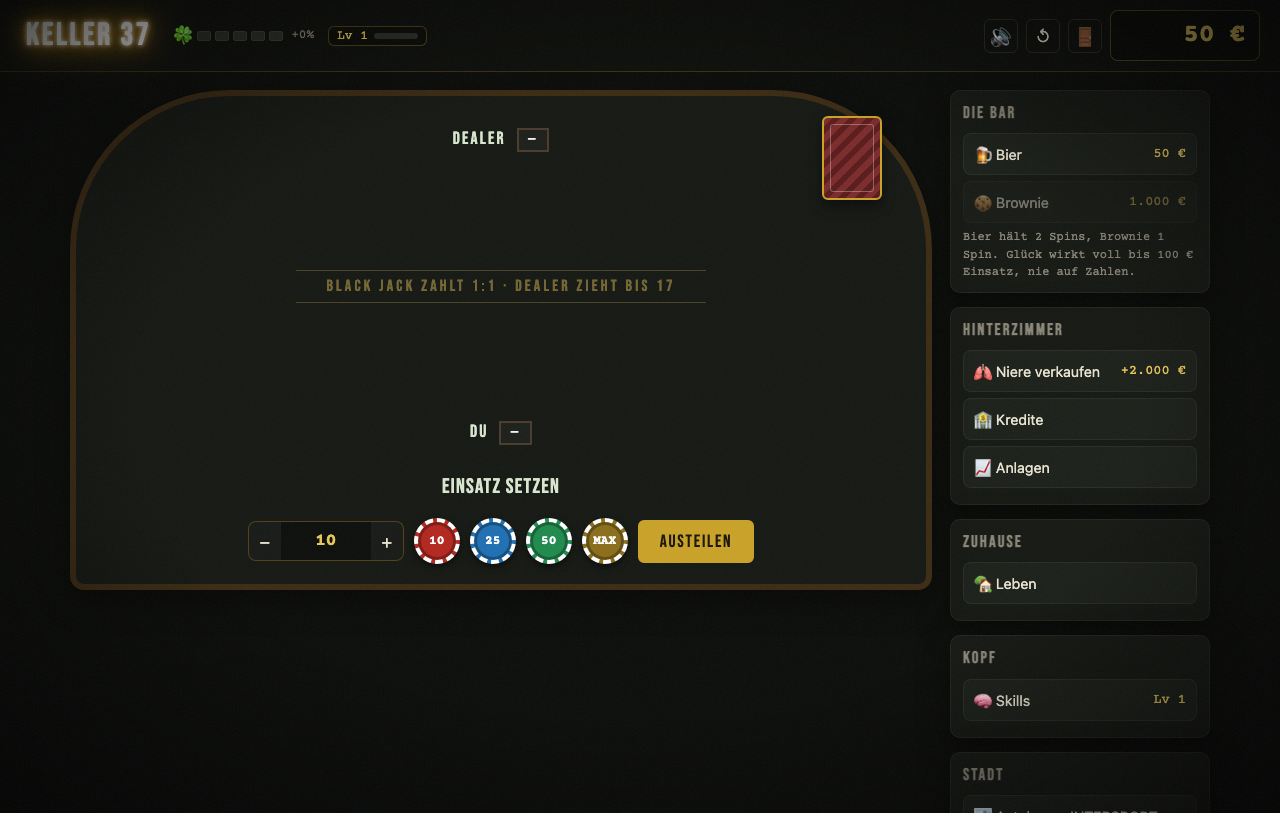
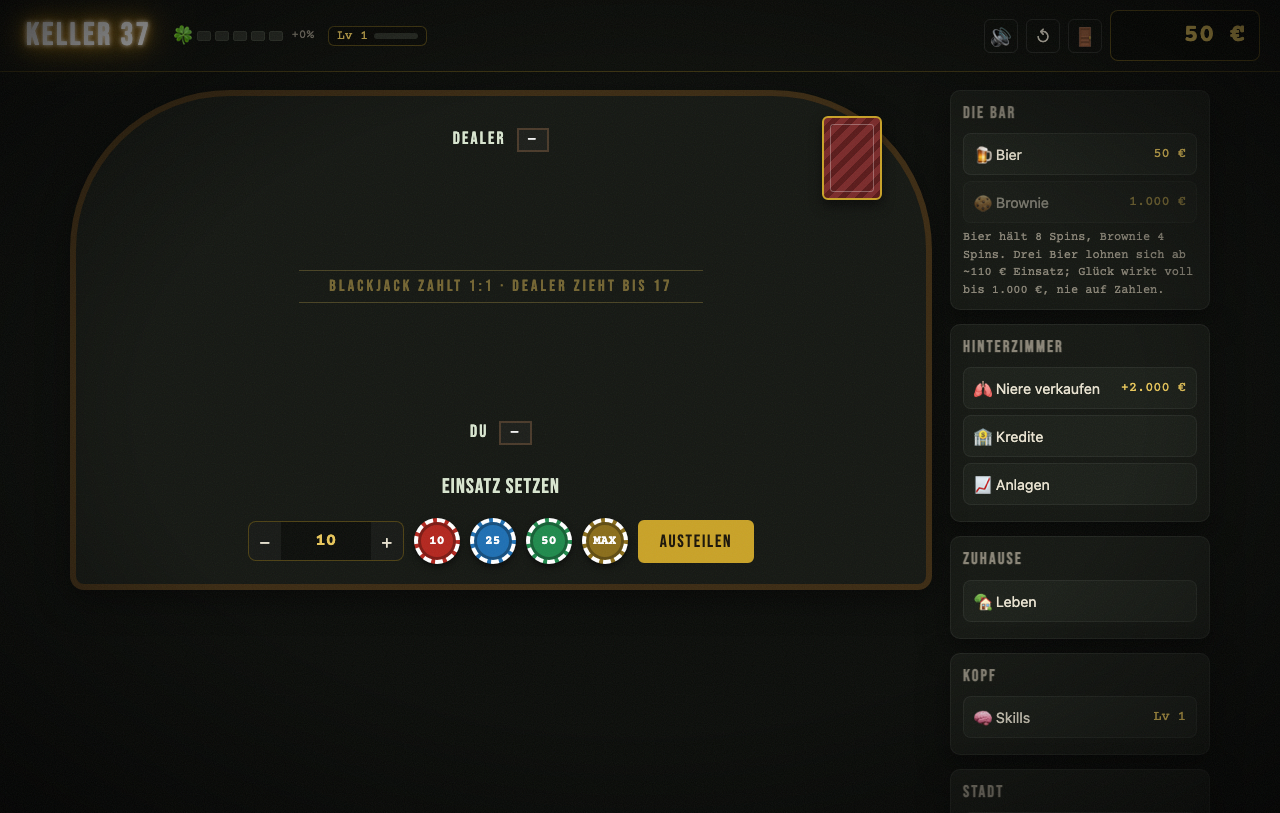
balance: alle Tische nüchtern ~97 %, mit 3 Bier ~115 %; Bier hält 8 Spins und lohnt sich ab ~110 € an jedem Tisch
Vorher verlor man überall (Slots 94 %, Mega 92 %, Rad 94 %), und der einzige
Vorteil – Bier – rechnete sich erst ab 220 € Einsatz und nur auf Rot/Schwarz.
Wer Slots, Rad oder Mega Seven spielte, verlor auch betrunken.

- BEER_SPINS 4 → 8: 150 € für 8 Spins, Break-even ~110 € statt 220 €
- Slots: Drillinge 6/20/25/40 (Paar 1,2×) → 97,7 %; Glück macht aus einem
  billigen Paar zu 12 % einen Drilling (SLOT_LUCK_TRIPLE) → 115 % mit 3 Bier
  (vorher 106 %). Zockerhände ist damit nüchtern ~102 %.
- Glücksrad: 8 Bankrott, 13 Hälfte, ×2/×5/×10 → 97,9 %, 115 % mit 3 Bier
- Mega Seven: Glocke 4er/5er 12/30 statt 10/25 → ~97 %, 116 % mit 3 Bier
- Bar-Hinweis nennt die Schwelle (BEER_WORTH_FROM, im Selftest gegen die
  Rechnung geprüft); Paytables, README, Sim-Leitplanken angepasst
- Sim: Story 1/2 diszipliniert auf Rot 45 → 76 % / 36 → 68 %, wild bleibt pleite

Referenzbilder slots/roulette/blackjack/hub erneuert (Bar-Hinweis eine Zeile länger).

diff --git a/keller37.html b/keller37.html
@@ -1264,8 +1264,8 @@ body.zitter .balance:not(.up):not(.down), body.zitter .hud-pegel { animation: zi
         <table>
           <tr><td>7⃣ 7⃣ 7⃣</td><td>40×</td></tr>
           <tr><td>💎 💎 💎</td><td>25×</td></tr>
-          <tr><td>🔔 🔔 🔔</td><td>15×</td></tr>
-          <tr><td>Drilling</td><td>5×</td></tr>
+          <tr><td>🔔 🔔 🔔</td><td>20×</td></tr>
+          <tr><td>Drilling</td><td>6×</td></tr>
           <tr><td>Paar</td><td id="payPair">1,2×</td></tr>
         </table>
       </div>
@@ -1569,7 +1569,7 @@ body.zitter .balance:not(.up):not(.down), body.zitter .hud-pegel { animation: zi
         <tr><td>7⃣</td><td>20 / 100 / 500</td></tr>
         <tr><td>💎</td><td>10 / 40 / 100</td></tr>
         <tr><td>BAR</td><td>5 / 20 / 50</td></tr>
-        <tr><td>🔔</td><td>3 / 10 / 25</td></tr>
+        <tr><td>🔔</td><td>3 / 12 / 30</td></tr>
         <tr><td>🍒</td><td>2 / 5 / 10</td></tr>
         <tr><td>⭐ ×3+</td><td>5 Freispiele, ×2</td></tr>
       </table>
@@ -1656,7 +1656,7 @@ body.zitter .balance:not(.up):not(.down), body.zitter .hud-pegel { animation: zi
       <h4>24 Felder</h4>
       <table>
         <tr><td>×10</td><td>1 Feld</td></tr><tr><td>×5</td><td>1 Feld</td></tr><tr><td>×2</td><td>1 Feld</td></tr>
-        <tr><td>Hälfte</td><td>11 Felder</td></tr><tr><td>Bankrott</td><td>10 Felder</td></tr>
+        <tr><td>Hälfte</td><td>13 Felder</td></tr><tr><td>Bankrott</td><td>8 Felder</td></tr>
       </table>
     </div>
     <div class="status" id="wheelStatus">Einsatz wählen und drehen</div>
@@ -1698,7 +1698,8 @@ const Rules = {
   POST_PENALTY: 25,
   BEER_LUCK: [0, 10, 15, 20, 25],
   BROWNIE_LUCK: 40,
-  BEER_SPINS: 4,       // 3 Bier = 150 € für 4 Spins: lohnt sich ab ~220 € Einsatz am Roulette (Balancing 2026-09-20, tests/balance-sim.mjs)
+  BEER_SPINS: 8,       // 3 Bier = 150 € für 8 Spins: lohnt sich ab ~110 € Einsatz an jedem Tisch (Balancing 2026-09-21, tests/balance-sim.mjs; vorher 4 Spins = ab 220 €, und nur am Roulette)
+  BEER_WORTH_FROM: 110, // Einsatz, ab dem sich 3 Bier rechnen (Bar-Hinweis; der Selftest prüft ihn gegen 150 / (BEER_SPINS × Vorteil))
   BROWNIE_SPINS: 4,
   MARRIAGE_SPINS: 2,
   MAFIA_SPINS: 5,
@@ -1714,8 +1715,9 @@ const Rules = {
     return l;
   },
   /* Glück ist ein echter, aber teurer Vorteil: voll bis LUCK_CAP, darüber im Verhältnis kleiner (Pech genauso).
-     Mit 3 Bier liegt Roulette Rot/Schwarz bei ~117 %, das Rad bei ~111 %, die Slots bei ~105 % – wer die Bankroll
-     hält und den Einsatz am Cap ausrichtet, kommt voran; wer alles setzt, fällt trotzdem. */
+     Balancing 2026-09-21: nüchtern liegen alle Tische bei ~97 % (Roulette Rot 97, Slots 98, Rad 98, Mega 97, Craps/Baccarat 99),
+     mit 3 Bier bei ~115 % (Rot 117, Slots 115, Rad 115, Mega 117, Craps 109, Baccarat 108) – der Spieler darf das Spiel
+     wählen, das ihm gefällt. Wer die Bankroll hält und ab BEER_WORTH_FROM setzt, kommt voran; wer alles setzt, fällt trotzdem. */
   effectiveLuck(luck, bet) {
     if (!luck) return 0;
     if (!bet || bet <= Rules.LUCK_CAP) return luck;
@@ -1823,17 +1825,21 @@ const Rules = {
   SYMBOLS: ['🍒', '🍋', '🍇', '🔔', '💎', '7⃣'],
   slotRoll(rng) { return [0, 1, 2].map(() => Rules.SYMBOLS[Math.floor(rng() * Rules.SYMBOLS.length)]); },
   CHEAP: ['🍒', '🍋', '🍇'],
-  /* Glück erzwingt ein Paar; wird daraus zufällig ein Drilling, dann nur bei den billigen Symbolen (5×) –
+  SLOT_LUCK_TRIPLE: 0.12, // Glück: ein erzwungenes Paar aus 🍒🍋🍇 wird so oft zum Drilling (fest, nicht mit dem Glück skaliert)
+  /* Glück erzwingt ein Paar; bei den billigen Symbolen (6×) wird daraus mit SLOT_LUCK_TRIPLE ein Drilling –
      Glocke, Diamant und Sieben bleiben Glückssache, sonst wären Slots mit Bier eine Gelddruckmaschine.
+     Balancing 2026-09-21: 3 Bier heben Slots damit auf ~115 % wie Roulette Rot (vorher 106 %: Bier lohnte sich erst ab 600 € Einsatz).
      Pech würfelt einen Gewinn einmal neu. */
   slotLuckOverride(res, luck, rng) {
     if (luck < 0) return Rules.slotMultiplier(...res) > 0 && Rules.pech(luck, rng) ? Rules.slotRoll(rng) : res;
     const [a, b, c] = res;
-    if (rng() * 100 < luck) return [a, a, c === a && !Rules.CHEAP.includes(a) ? Rules.SYMBOLS[(Rules.SYMBOLS.indexOf(a) + 1) % Rules.SYMBOLS.length] : c];
-    return [a, b, c];
+    if (!(rng() * 100 < luck)) return [a, b, c];
+    if (Rules.CHEAP.includes(a)) return [a, a, c === a || rng() < Rules.SLOT_LUCK_TRIPLE ? a : c];
+    return [a, a, c === a ? Rules.SYMBOLS[(Rules.SYMBOLS.indexOf(a) + 1) % Rules.SYMBOLS.length] : c];
   },
+  /* Drillinge 6/20/25/40 + Paar 1,2× → 97,7 % ohne Glück (vorher 5/15/25/40 = 94,4 %; Balancing 2026-09-21: alle Tische ~97 % wie Roulette Rot) */
   slotMultiplier(a, b, c, mods = Rules.NEUTRAL_MODS) {
-    if (a === b && b === c) return a === '7⃣' ? 40 : a === '💎' ? 25 : a === '🔔' ? 15 : 5;
+    if (a === b && b === c) return a === '7⃣' ? 40 : a === '💎' ? 25 : a === '🔔' ? 20 : 6;
     if (a === b || b === c || a === c) return mods.slotPairMult;
     return 0;
   },
@@ -2605,7 +2611,7 @@ const UI = {
       btn(`🍺 Bier${s.beers > 0 ? ` (${s.beers}/${mods.maxBeers})` : ''}`, this.fmt(StoryRules.price(s, 'beer')), 'beer', !Rules.canBeer(s, StoryRules.price(s, 'beer'), mods).ok || StoryRules.purchaseAllowed(s, 'beer') === false),
       btn('🍪 Brownie', this.fmt(s.brownieCost), 'brownie', !Rules.canBrownie(s).ok || StoryRules.purchaseAllowed(s, 'brownie') === false),
       ...acts('bar'),
-      h('p', { class: 'side-hint' }, `Bier hält ${Rules.BEER_SPINS} Spins, Brownie ${mods.brownieSpins} Spin${mods.brownieSpins === 1 ? '' : 's'}. Glück wirkt voll bis ${this.fmt(Rules.LUCK_CAP)} Einsatz, nie auf Zahlen.`)));
+      h('p', { class: 'side-hint' }, `Bier hält ${Rules.BEER_SPINS} Spins, Brownie ${mods.brownieSpins} Spin${mods.brownieSpins === 1 ? '' : 's'}. Drei Bier lohnen sich ab ~${this.fmt(Rules.BEER_WORTH_FROM)} Einsatz; Glück wirkt voll bis ${this.fmt(Rules.LUCK_CAP)}, nie auf Zahlen.`)));
     const hz = [];
     if (room('doc') || !inStory) hz.push(btn(s.kidneySold ? '🫁 Niere verkauft' : '🫁 Niere verkaufen', s.kidneySold ? '' : '+2.000 €', 'kidney', s.kidneySold));
     if (room('bank') || room('mafia')) hz.push(btn('🏦 Kredite', s.bankDebt + s.mafiaDebt > 0 ? `−${this.fmt(s.bankDebt + s.mafiaDebt)}` : '', 'finance'));
@@ -6768,7 +6774,7 @@ const RoyalRules = {
     SYMBOLS: ['🍒', '🔔', 'BAR', '💎', '7⃣', '⭐'],
     WEIGHTS: [30, 25, 18, 12, 7, 8],
     LINES: [[1, 1, 1, 1, 1], [0, 0, 0, 0, 0], [2, 2, 2, 2, 2], [0, 1, 2, 1, 0], [2, 1, 0, 1, 2]], // Reihe je Walze
-    PAY: { '🍒': [0, 0, 0, 2, 5, 10], '🔔': [0, 0, 0, 3, 10, 25], BAR: [0, 0, 0, 5, 20, 50], '💎': [0, 0, 0, 10, 40, 100], '7⃣': [0, 0, 0, 20, 100, 500] },
+    PAY: { '🍒': [0, 0, 0, 2, 5, 10], '🔔': [0, 0, 0, 3, 12, 30], BAR: [0, 0, 0, 5, 20, 50], '💎': [0, 0, 0, 10, 40, 100], '7⃣': [0, 0, 0, 20, 100, 500] }, // Balancing 2026-09-21: Glocke 4er/5er 12/30 statt 10/25 → ~96 % ohne Glück (vorher 92 %), mit 3 Bier ~116 % wie Roulette Rot
     BETS: [100, 250, 500, 1000],
     FREE_SPINS: 5, FREE_MULT: 2, FREE_MAX: 15, SCATTER: '⭐',
     BIG_MULT: 10, MEGA_MULT: 50, AUTO_ROUNDS: 10,
@@ -6909,11 +6915,11 @@ const RoyalRules = {
     return dice;
   },
   /* ---- Glücksrad: 24 Segmente, Multiplikator auf den Einsatz (0 = Bankrott, 0,5 = Hälfte zurück) ----
-     Summe 22,5 → 93,75 % ohne Glück. Balancing 2026-09-20: 10 statt 13 Bankrott, dafür 11 Hälfte und kein Einsatz-zurück –
-     gleiche Quote, weniger Totalverluste. ×2/×5/×10 liegen direkt hinter einem Bankrott, weil Glück Bankrott auf das nächste
-     Feld schiebt; so bleibt Bier am Rad bei ~112 % (tests/balance-sim.mjs). */
+     Summe 23,5 → 97,9 % ohne Glück. Balancing 2026-09-21: 8 Bankrott, 13 Hälfte, ×2/×5/×10 – alle Tische ~97 % wie Roulette Rot
+     (vorher 13 Bankrott, 93,75 %). ×2/×5/×10 liegen direkt hinter einem Bankrott, weil Glück Bankrott auf das nächste Feld
+     schiebt; so liegt das Rad mit 3 Bier bei ~114 % (tests/balance-sim.mjs). */
   WHEEL: {
-    SEGMENTS: [0, 0.5, 0, 10, 0.5, 0, 5, 0.5, 0, 0.5, 0, 2, 0.5, 0, 0.5, 0, 0.5, 0.5, 0, 0.5, 0, 0.5, 0.5, 0],
+    SEGMENTS: [0, 10, 0.5, 0, 0.5, 0.5, 0, 5, 0.5, 0, 0.5, 0.5, 0, 2, 0.5, 0, 0.5, 0.5, 0, 0.5, 0.5, 0, 0.5, 0.5],
     BETS: [100, 500, 1000, 5000],
   },
   wheelSpin(rng) { return Math.floor(rng() * RoyalRules.WHEEL.SEGMENTS.length); },
@@ -9854,14 +9860,19 @@ T.test('slotLuckOverride: erzwungenes Paar wird nur bei 🍒🍋🍇 zum Drillin
     T.ok(r[0] === sym && r[1] === sym && r[2] !== sym, `${sym}: Paar ja, Drilling nein – ${r.join('')}`);
   }
   T.eq(Rules.slotLuckOverride(['7⃣', '🍋', '🍒'], 100, seq(0)), ['7⃣', '7⃣', '🍒'], 'drittes Symbol bleibt, wenn es kein Drilling wäre');
+  /* Balancing 2026-09-21: billiges Paar wird mit SLOT_LUCK_TRIPLE (fest, unabhängig vom Glück) zum Drilling */
+  T.eq(Rules.SLOT_LUCK_TRIPLE, 0.12);
+  T.eq(Rules.slotLuckOverride(['🍒', '🍋', '🍇'], 40, seq(0.1, 0.11)), ['🍒', '🍒', '🍒'], 'rng 0.11 < 0.12 → Kirsch-Drilling');
+  T.eq(Rules.slotLuckOverride(['🍒', '🍋', '🍇'], 40, seq(0.1, 0.12)), ['🍒', '🍒', '🍇'], 'rng 0.12 ≥ 0.12 → nur Paar');
+  T.eq(Rules.slotLuckOverride(['7⃣', '🍋', '🍇'], 40, seq(0.1, 0.0)), ['7⃣', '7⃣', '🍇'], 'teures Symbol: nie per Zufall Drilling');
 });
-T.test('Glücks-Ökonomie: Bier 4 Spins, Brownie 4 Spins, Cap 1.000 – Bier lohnt sich ab ~220 € am Roulette, Slots bleiben ein Spaßgerät', () => {
-  T.eq(Rules.BEER_SPINS, 4); T.eq(Rules.BROWNIE_SPINS, 4); T.eq(Rules.LUCK_CAP, 1000);
+T.test('Glücks-Ökonomie: Bier 8 Spins, Brownie 4 Spins, Cap 1.000 – 3 Bier lohnen sich ab ~110 € an jedem Tisch (Balancing 2026-09-21)', () => {
+  T.eq(Rules.BEER_SPINS, 8); T.eq(Rules.BROWNIE_SPINS, 4); T.eq(Rules.LUCK_CAP, 1000);
   const N = 100000, mods = Rules.NEUTRAL_MODS;
   let rng = seeded(5), sum = 0;
   for (let i = 0; i < N; i++) { const res = Rules.slotLuckOverride(Rules.slotRoll(rng), 20, rng); sum += Rules.slotDelta(100, Rules.slotMultiplier(...res, mods)); }
   const slots = 100 + sum / N;
-  T.ok(slots > 101 && slots < 110, `Slots bei +20 Glück: RTP ${slots.toFixed(1)} % (erwartet 101–110)`);
+  T.ok(slots > 111 && slots < 120, `Slots bei +20 Glück: RTP ${slots.toFixed(1)} % (erwartet 111–120, wie Roulette Rot)`);
   rng = seeded(5); sum = 0;
   for (let i = 0; i < N; i++) { const rolled = Rules.rouletteLuckOverride('red', null, Rules.rouletteRoll(rng), 20, rng); sum += Rules.roulettePayout('red', null, rolled, 100, mods); }
   const rot = 100 + sum / N;
@@ -9873,10 +9884,13 @@ T.test('Glücks-Ökonomie: Bier 4 Spins, Brownie 4 Spins, Cap 1.000 – Bier loh
     sum += w.payout; if (w.freeSpins) free = Math.min(RoyalRules.MEGA.FREE_MAX, free + w.freeSpins);
   }
   const mega = 100 * sum / paid;
-  T.ok(mega > 106 && mega < 118, `Mega Seven bei +20 Glück: RTP ${mega.toFixed(1)} % (erwartet 106–118)`);
+  T.ok(mega > 111 && mega < 122, `Mega Seven bei +20 Glück: RTP ${mega.toFixed(1)} % (erwartet 111–122, wie Roulette Rot)`);
   /* 3 Bier = 150 € für BEER_SPINS Spins: Gewinnschwelle am Roulette = 150 / (BEER_SPINS × Vorteil) */
   const schwelle = 150 / (Rules.BEER_SPINS * (rot - 100) / 100);
-  T.ok(schwelle > 180 && schwelle < 260, `Bier rechnet sich ab ${schwelle.toFixed(0)} € Einsatz`);
+  T.ok(schwelle > 90 && schwelle < 130, `Bier rechnet sich ab ${schwelle.toFixed(0)} € Einsatz`);
+  T.ok(Math.abs(Rules.BEER_WORTH_FROM - schwelle) < 20, `Bar-Hinweis BEER_WORTH_FROM ${Rules.BEER_WORTH_FROM} passt zur Schwelle ${schwelle.toFixed(0)}`);
+  /* nüchtern ~97 %: Slots exakt 211/216, Rad 23,5/24 */
+  T.ok(Math.abs(RoyalRules.WHEEL.SEGMENTS.reduce((a, b) => a + b, 0) / 24 - 23.5 / 24) < 1e-9, 'Rad 97,9 % ohne Glück');
 });
 T.test('slotLuckOverride: kein Glück', () => {
   T.eq(Rules.slotLuckOverride(['🍒', '🍋', '🍇'], 40, seq(0.5)), ['🍒', '🍋', '🍇']);
@@ -9893,8 +9907,8 @@ T.test('slotLuckOverride: Pech würfelt einen Gewinn neu, Niete bleibt', () => {
 T.test('slotMultiplier', () => {
   T.eq(Rules.slotMultiplier('7⃣', '7⃣', '7⃣'), 40);
   T.eq(Rules.slotMultiplier('💎', '💎', '💎'), 25);
-  T.eq(Rules.slotMultiplier('🔔', '🔔', '🔔'), 15);
-  T.eq(Rules.slotMultiplier('🍒', '🍒', '🍒'), 5);
+  T.eq(Rules.slotMultiplier('🔔', '🔔', '🔔'), 20);
+  T.eq(Rules.slotMultiplier('🍒', '🍒', '🍒'), 6);
   T.eq(Rules.slotMultiplier('🍒', '🍒', '🍋'), 1.2);
   T.eq(Rules.slotMultiplier('🍒', '🍋', '🍒'), 1.2);
   T.eq(Rules.slotMultiplier('🍋', '🍒', '🍒'), 1.2);
@@ -10209,7 +10223,7 @@ T.test('megaRoll: 5 Walzen × 3 Reihen', () => {
 });
 T.test('megaLineWins: Mitte, oben, unten, V, umgekehrtes V', () => {
   T.eq(RoyalRules.megaLineWins(G(['🔔 🍒 🔔', '🔔 🍒 🔔', '🔔 🍒 🔔', '🔔 🔔 🔔', '🔔 🔔 🔔'])).map((w) => [w.line, w.sym, w.count, w.mult]),
-    [[0, '🍒', 3, 2], [1, '🔔', 5, 25], [2, '🔔', 5, 25]]);
+    [[0, '🍒', 3, 2], [1, '🔔', 5, 30], [2, '🔔', 5, 30]]);
   T.eq(RoyalRules.megaLineWins(G(['BAR 🍒 🍒', '🍒 BAR 🍒', '🍒 🍒 BAR', '🍒 BAR 🍒', 'BAR 🍒 🍒'])).map((w) => [w.line, w.sym, w.count, w.mult]), [[3, 'BAR', 5, 50]]);
   T.eq(RoyalRules.megaLineWins(G(['🍒 🍒 💎', '🍒 💎 🍒', '💎 🍒 🍒', '🍒 💎 🍒', '🍒 🍒 💎'])).map((w) => [w.line, w.sym, w.count, w.mult]), [[4, '💎', 5, 100]]);
 });
@@ -10348,12 +10362,12 @@ T.test('RoyalRules.wheelTone: Segmentklasse je Multiplikator', () => {
   T.eq([10, 5, 2, 1, 0.5, 0].map(RoyalRules.wheelTone), ['x10', 'x5', 'x2', 'x1', 'half', 'bust']);
   T.eq(Object.keys(RoyalRules.WHEEL_COLORS).sort(), ['0', '0.5', '1', '10', '2', '5']);
 });
-T.test('WHEEL: 24 Segmente, Verteilung, Erwartungswert 93,75 %', () => {
+T.test('WHEEL: 24 Segmente, Verteilung, Erwartungswert 97,9 %', () => {
   const S = RoyalRules.WHEEL.SEGMENTS;
   T.eq(S.length, 24);
   const count = (v) => S.filter((x) => x === v).length;
-  T.eq([count(0), count(0.5), count(1), count(2), count(5), count(10)], [10, 11, 0, 1, 1, 1], 'Balancing 2026-09-20: 10 statt 13 Bankrott, dafür Hälfte statt Einsatz zurück');
-  T.eq(S.reduce((a, b) => a + b, 0) / 24, 0.9375);
+  T.eq([count(0), count(0.5), count(1), count(2), count(5), count(10)], [8, 13, 0, 1, 1, 1], 'Balancing 2026-09-21: 8 Bankrott, 13 Hälfte – ~97 % wie alle Tische');
+  T.eq(S.reduce((a, b) => a + b, 0) / 24, 23.5 / 24);
   S.forEach((v, i) => { if (v === 0) T.ok(S[(i + 1) % 24] !== 0 || S[(i + 2) % 24] !== 0, `Bankrott ${i} hat binnen 2 Schritten ein Nicht-Bankrott-Segment`); });
   S.forEach((v, i) => { if (v !== 0) T.ok(S[(i + 1) % 24] === 0 || S[(i + 2) % 24] === 0, `Segment ${i} hat binnen 2 Schritten ein Bankrott-Segment (Pech)`); });
   /* Glück schiebt Bankrott aufs nächste Feld – die drei Gewinnfelder liegen direkt hinter einem Bankrott, sonst wirkt Bier am Rad kaum */
@@ -10446,8 +10460,8 @@ T.test('wheelLuckOverride: Bankrott rückt auf das nächste Nicht-Bankrott-Segme
 T.test('wheelLuckOverride: Pech rückt einen Gewinn auf das nächste Bankrott-Segment', () => {
   const S = RoyalRules.WHEEL.SEGMENTS;
   const i10 = S.indexOf(10), i0 = S.indexOf(0);
-  T.eq(i10, 3); T.eq(S[4], 0.5); T.eq(S[5], 0);
-  T.eq(RoyalRules.wheelLuckOverride(i10, -100, seq(0)), 5, '×10 (Index 3) → Index 5 ist das nächste Bankrott');
+  T.eq(i10, 1); T.eq(S[2], 0.5); T.eq(S[3], 0);
+  T.eq(RoyalRules.wheelLuckOverride(i10, -100, seq(0)), 3, '×10 (Index 1) → Index 3 ist das nächste Bankrott');
   T.eq(RoyalRules.wheelLuckOverride(i10, -15, seq(0.15)), i10, 'rng 15 ≥ |luck| 15 → bleibt');
   T.eq(RoyalRules.wheelLuckOverride(i0, -100, seq(0)), i0, 'Bankrott bleibt');
   T.eq(RoyalRules.wheelLuckOverride(i10, 0, seq(0)), i10, 'luck 0 unverändert');
@@ -13434,11 +13448,11 @@ T.test('Roulette mit mods: 36:1, Ausschlussliste', () => {
 T.test('Slots/Pferde mit mods', () => {
   T.eq(Rules.slotMultiplier('🍒', '🍒', '🍋', M({ slotPairMult: 1.5 })), 1.5);
   T.eq(Rules.slotMultiplier('🍒', '🍒', '🍋', M({ slotPairMult: 0 })), 0);
-  T.eq(Rules.slotMultiplier('🍒', '🍒', '🍒', M({ slotPairMult: 0 })), 5, 'Drilling unberührt');
+  T.eq(Rules.slotMultiplier('🍒', '🍒', '🍒', M({ slotPairMult: 0 })), 6, 'Drilling unberührt');
   T.eq(Rules.horseDelta(true, 100), 300); T.eq(Rules.horseDelta(true, 100, M({ horsePayout: 3.3 })), 330); T.eq(Rules.horseDelta(false, 100, M({ horsePayout: 3.3 })), -100);
   near(Rules.horseStep(false, 0, seq(0), Rules.HORSE_LAME_STEP), 1.5 * Rules.HORSE_LAME_STEP, 'Handicap');
 });
-T.test('Slots: Erwartungswert bleibt unter 1 (Zockerhände 1,3×, neutral)', () => {
+T.test('Slots: Erwartungswert neutral ~97,7 %, Zockerhände 1,3× knapp über 1 (Balancing 2026-09-21)', () => {
   const evFor = (mods) => {
     let sum = 0, n = 0;
     for (const a of Rules.SYMBOLS) for (const b of Rules.SYMBOLS) for (const c of Rules.SYMBOLS) { sum += Rules.slotMultiplier(a, b, c, mods); n++; }
@@ -13446,9 +13460,9 @@ T.test('Slots: Erwartungswert bleibt unter 1 (Zockerhände 1,3×, neutral)', () 
   };
   const zocker = evFor(M({ slotPairMult: 1.3 }));
   T.eq(zocker.n, 216, 'alle Walzen-Kombinationen');
-  T.ok(zocker.avg < 1, `Zockerhände 1,3× bleibt -EV (avg=${zocker.avg})`);
+  T.ok(zocker.avg > 1 && zocker.avg < 1.03, `Zockerhände 1,3× ist nüchtern leicht +EV, ~102 % (avg=${zocker.avg}) – der Perk kostet dafür 2 % Bank-Zinsen`);
   const neutral = evFor(Rules.NEUTRAL_MODS);
-  T.ok(neutral.avg < 1, `neutral bleibt -EV (avg=${neutral.avg})`);
+  T.ok(Math.abs(neutral.avg - 211 / 216) < 1e-9, `neutral 211/216 = 97,7 % (avg=${neutral.avg})`);
 });
 T.test('Blackjack mit mods: Natural 3:2, Push +10 %, heißes Deck 1,2:1', () => {
   T.eq(Rules.bjDelta('win', 100), 100);

diff --git a/README.md b/README.md
@@ -7,11 +7,11 @@ Ein satirisches Casino-Lebenssimulations-Spiel in einer einzigen HTML-Datei. Fü
 ## Was drin ist
 
 - **Sechs Spiele:** Roulette mit Setztisch und laufender Kugel, Slots mit echten Walzen, Pferderennen mit Live-Kommentar, Russisches Roulette gegen Igor, Blackjack am Filztisch, Post austragen als ehrlicher Ausweg (eine Schicht endet nach 15 Briefen oder beim ersten Fehler). Beim Roulette Chips mit dem gewählten Wert auf Zahlen und Außenfelder legen (mehrere gleichzeitig), „Chip zurück", „Tisch leeren" oder „Wie zuletzt" nutzen; ein Dreh wertet alle liegenden Chips auf einmal aus.
-- **Leben:** Villa kaufen, auf Tinder Chantal-Monique heiraten, geschieden werden, Therapie zahlen, einen Dealer anheuern. Bier und Brownies an der Bar geben Glück – Bier hält 4 Spins, Brownie 4; es wirkt voll bis 1.000 € Einsatz, darüber anteilig, und nie auf Roulette-Zahlen. Mit drei Bier liegt Roulette Rot/Schwarz bei ~117 %, das Rad bei ~111 %, die Slots bei ~105 % (Glück erzwingt ein Paar, ein Drilling daraus nur bei 🍒🍋🍇) – 150 € Bier rechnen sich ab ~220 € Einsatz, wer die Bankroll hält, kommt voran, wer alles setzt, fällt trotzdem (`tests/balance-sim.mjs`); negatives Glück ist Pech (Zitter-Tag in Story 2): mit |x| % wird ein Gewinn einmal neu ausgewürfelt. Eine Niere fürs Hinterzimmer.
+- **Leben:** Villa kaufen, auf Tinder Chantal-Monique heiraten, geschieden werden, Therapie zahlen, einen Dealer anheuern. Bier und Brownies an der Bar geben Glück – Bier hält 8 Spins, Brownie 4; es wirkt voll bis 1.000 € Einsatz, darüber anteilig, und nie auf Roulette-Zahlen. Nüchtern liegen alle Tische bei ~97 % (Roulette Rot 97, Slots 98, Rad 98, Mega Seven 97, Craps/Baccarat 99), mit drei Bier bei ~115 % (Slots: Glück erzwingt ein Paar, aus 🍒🍋🍇 wird es zu 12 % ein Drilling) – 150 € Bier rechnen sich ab ~110 € Einsatz an jedem Tisch, wer die Bankroll hält, kommt voran, wer alles setzt, fällt trotzdem (`tests/balance-sim.mjs`; Balancing 2026-09-21: vorher 4 Spins, Bier lohnte sich erst ab 220 € und nur am Roulette); negatives Glück ist Pech (Zitter-Tag in Story 2): mit |x| % wird ein Gewinn einmal neu ausgewürfelt. Eine Niere fürs Hinterzimmer.
 - **Kredite:** Bank (8 % Zinsen pro Spin, Limit 3.000 €, nur ein Kredit auf einmal) oder Don Vito (5 Spins Frist, danach der Doc).
 - **Anlagen:** Festgeld +8 % nach 6 Spins (10 % Risiko), Aktien +100 % nach 2 Spins (85 %), Trickbetrug +50 % nach 10 Spins (55 %) – je Sorte eine laufende Anlage.
 - **Stadt:** Autohaus (Audi-Linie senkt das Überfallrisiko und erhöht die Fluchtchance, Mercedes-Linie hebt Bank-Limit und senkt die Zinsen) und INTERSPORT (Laufschuhe verbessern die Flucht, bringen mehr Zeit/Lohn beim Postboten und helfen bei den Job-Minispielen). Ein neues Auto nimmt das alte mit 50 % seines Preises in Zahlung, Schuhe gibt es nur zum vollen Preis.
-- **Casino Royal:** am Ende der Straße, nur mit Auto (Parkservice). Eintritt 100 € – bis zum ersten Einzelgewinn ab 5.000 €, dann bist du Gast des Hauses. Drei Tische mit höheren Einsätzen: **Mega Seven** (5 Walzen, 5 Linien, Freispiele ×2), **Craps** (Pass Line und Field, jeder Wurf ein Spin) und das **Glücksrad** (24 Felder: ×10, ×5, ×2, 11× Hälfte zurück, 10× Bankrott – 93,75 %, wie die Slots, nur streuender). Madame Sylvie sieht alles. Ein anderer Ort: Art déco in Gold und Schwarz – beim Betreten wechselt die ganze Seite (Kopfzeile, Seitenleiste, Chips) hinter einem Gold-Vorhang, die Lobby ist ein Foyer mit drei Portalen, Mega Seven hat echte Walzenstreifen (Anlauf, Bremsen, Nachwippen, Stopp-Klack mit steigender Tonhöhe), baut Spannung auf, wenn nach drei Walzen Freispiele oder ein großer Treffer in Reichweite sind (die letzten zwei laufen länger, die Maschine glüht, Herzschlag), feiert BIG WIN ab 10× und MEGA WIN ab 50× Einsatz mit Banner, hochzählendem Betrag und Goldregen, zeichnet Gewinnlinien in Gold, klappt bei Freispielen ein Banner aus und dreht auf Wunsch **Auto ×10** Runden am Stück (stoppt bei Big Win oder leerer Kasse), Craps markiert Einsätze mit Chip-Stapeln, das Glücksrad hat Zahnkranz, Lauflichter und beim Bankrott gehen kurz die Lichter aus. In der Stadt steht die Fassade mit Marquee, Messingschild und – am Zitter-Tag – einem Türsteher. An allen Tischen mit festen Einsätzen (Mega Seven, Craps, Glücksrad, Baccarat) steht der gewählte Betrag wie im Keller im Feld neben den Chips, der passende Chip ist hervorgehoben.
+- **Casino Royal:** am Ende der Straße, nur mit Auto (Parkservice). Eintritt 100 € – bis zum ersten Einzelgewinn ab 5.000 €, dann bist du Gast des Hauses. Drei Tische mit höheren Einsätzen: **Mega Seven** (5 Walzen, 5 Linien, Freispiele ×2), **Craps** (Pass Line und Field, jeder Wurf ein Spin) und das **Glücksrad** (24 Felder: ×10, ×5, ×2, 13× Hälfte zurück, 8× Bankrott – ~98 %, wie Roulette Rot, nur streuender). Madame Sylvie sieht alles. Ein anderer Ort: Art déco in Gold und Schwarz – beim Betreten wechselt die ganze Seite (Kopfzeile, Seitenleiste, Chips) hinter einem Gold-Vorhang, die Lobby ist ein Foyer mit drei Portalen, Mega Seven hat echte Walzenstreifen (Anlauf, Bremsen, Nachwippen, Stopp-Klack mit steigender Tonhöhe), baut Spannung auf, wenn nach drei Walzen Freispiele oder ein großer Treffer in Reichweite sind (die letzten zwei laufen länger, die Maschine glüht, Herzschlag), feiert BIG WIN ab 10× und MEGA WIN ab 50× Einsatz mit Banner, hochzählendem Betrag und Goldregen, zeichnet Gewinnlinien in Gold, klappt bei Freispielen ein Banner aus und dreht auf Wunsch **Auto ×10** Runden am Stück (stoppt bei Big Win oder leerer Kasse), Craps markiert Einsätze mit Chip-Stapeln, das Glücksrad hat Zahnkranz, Lauflichter und beim Bankrott gehen kurz die Lichter aus. In der Stadt steht die Fassade mit Marquee, Messingschild und – am Zitter-Tag – einem Türsteher. An allen Tischen mit festen Einsätzen (Mega Seven, Craps, Glücksrad, Baccarat) steht der gewählte Betrag wie im Keller im Feld neben den Chips, der passende Chip ist hervorgehoben.
 - **Kater-HUD (Story 2):** Leber als Balken (grün → gelb → rot, pulsiert ab 30), Pegel als drei Bierkrüge, Deckel als Bierdeckel mit Strichliste; am Zitter-Tag zittern Kontostand und Krüge, ein roter Zettel zeigt −15 Glück, das erste Bier beendet es („Ruhige Hände.").
 - **Hinterzimmer:** 🂡 Baccarat (Punto Banco) · 500–10.000 € · Spieler 1:1, Bank 0,95:1, Unentschieden 8:1 · nur in Story 3.
 - **Überfälle & Stärke:** auf dem Weg in den Keller kann es einen Überfall geben – Kämpfen, Wegrennen oder Zahlen. Ein Kampf (gewonnen oder verloren) erhöht 💪 Stärke; Stärke verbessert die Kampfchance und den Türsteher-Bonus, schaltet den Job „Eintreiber" frei und macht ab 10 gefürchtet (seltener Ziel für Überfälle).
